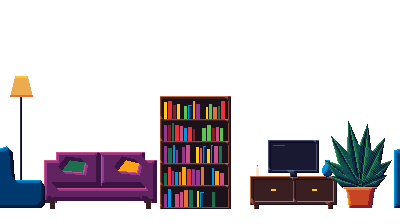
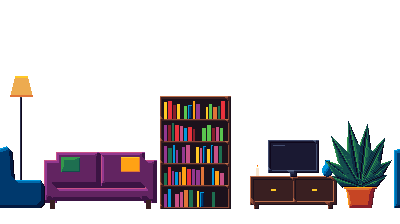
Lake ruins and columns; house furnished from the new furniture set
Claude-Session: https://claude.ai/code/session_0114fZk9r84XsbnoNJLbsP6i

Changed region(s): [[0.27, 0.6875, 0.36, 0.7812], [0.15, 0.6875, 0.24, 0.7812]]

diff --git a/index.html b/index.html
@@ -1183,18 +1183,29 @@ kbd { font-family: var(--body); background: var(--panel); padding: 1px 6px; bord
   const mixOf = (n, m, salt) => { if (!SEED) return n % m; let x = (SEED + Math.imul(n, 0x9E3779B9) + salt) | 0; x ^= x >>> 16; x = Math.imul(x, 0x7feb352d); x ^= x >>> 15; x = Math.imul(x, 0x846ca68b); x ^= x >>> 16; return (x >>> 0) % m; }; // like modOf, but well mixed: modOf's picks repeat in runs
   const modOf = (r, n, m) => SEED ? Math.floor(r() * m) : n % m; // which layout a generated screen uses
   const pk = (r, a, b, st) => a + Math.floor(r() * (Math.floor((b - a) / st) + 1)) * st;
+  // House (Claude places these from the art thread's furniture set, by the room's name). Three spots per room; each takes one
+  // furniture group. Anything taller than one jump (wardrobe, grandfather clock) gets a crate in front as a step.
+  const HOUSE_SETS = { 'DINING ROOM': ['dine', 'stove', 'plant', 'gclock'], PANTRY: ['fridge', 'crates', 'stove', 'table'], STUDY: ['read', 'desk', 'gclock', 'shelf'], 'GUEST ROOM': ['bed', 'wardrobe', 'plant', 'read'],
+    PLAYROOM: ['tv', 'sofa', 'crates', 'plant'], LAUNDRY: ['crates', 'wardrobe', 'table', 'plant'], WORKSHOP: ['desk', 'crates', 'shelf', 'fridge'], STOREROOM: ['crates', 'wardrobe', 'fridge', 'shelf'] };
   function genHouse(name, n) {
     const r = rngOf(101 + n * 17), sty = [['plank', ['#733e39', '#b86f50', '#3e2731']], [0, ['#265c42', '#3e8948', '#193c3e']], [0, ['#e4a672', '#ead4aa', '#b86f50']], [0, ['#5a6988', '#8b9bb4', '#3a4466']], ['block', ['#5a6988', '#8b9bb4', '#3a4466']]][n % 5];
-    const decor = [], props = [], kinds = ['pic', 'lamp', 'win', 'clock', 'lamp', 'books', 'pic'];
+    const decor = [], props = [], deco = [], kinds = ['pic', 'lamp', 'win', 'clock', 'lamp', 'books', 'pic'], P = (k, x, w, h, o) => props.push({ k, x, w, h, ...(o || {}) });
     [220, 480, 740, 1010, 1290].forEach((x, k) => { if (r() < 0.8) decor.push([kinds[(k + n) % kinds.length], x]); });
-    if (r() < 0.5) decor.push(['rug', pk(r, 400, 900, 100)]);
-    const low = [['table', 150, 64], ['side', 90, 92], ['crate', 90, 90], ['desk', 150, 64], ['box', 110, 96], ['counter', 240, 80]], tall = [['tv', 170, 196, 2, 1], ['fridge', 130, 205, 2, 1], ['wardrobe', 150, 215, 3, 0]];
-    [430, 810, 1190].forEach(x => {
-      const t = r(); x += pk(r, -40, 40, 20);
-      if (t < 0.45) { const [k, w, h] = low[Math.floor(r() * low.length)]; props.push({ k, x, w, h }); }
-      else if (t < 0.85) { const [k, w, h, hp, el] = tall[Math.floor(r() * 3)]; props.push({ k: 'side', x: x - 80, w: 90, h: 92 }, { k, x: x + 50, w, h, hp, ...(el ? { elec: 1 } : {}) }); }
-    });
-    return { name, style: sty[0] || undefined, wall: sty[1], floor: sty[0] === 'block' ? ['#8b9bb4', '#5a6988'] : ['#b86f50', '#733e39'], decor, props };
+    if (r() < 0.5) { const rx = pk(r, 400, 900, 100); decor.push(['rug', rx]); deco.push(['rug', rx, 0]); }
+    const G = {
+      dine: x => { P('chair', x - 100, 48, 80); P('table', x, 128, 64); P('chair', x + 100, 48, 80); deco.push(['vase', x, 64]); },
+      table: x => { P('table', x, 128, 64); deco.push(['candle_table', x - 20, 64]); },
+      desk: x => { P('desk', x, 128, 64); P('chair', x + 96, 48, 80); deco.push(['candle_table', x - 30, 64]); },
+      read: x => { deco.push(['lamp', x - 70, 0]); P('armchair', x, 96, 96); },
+      sofa: x => P('counter', x, 192, 96), bed: x => P('bed', x, 192, 56), crates: x => { P('crate', x - 32, 64, 64); P('crate', x + 32, 64, 64); if (r() < 0.5) P('box', x + 96, 64, 64); },
+      plant: x => P('plant', x, 96, 128, { hp: 1 }), stove: x => P('stove', x, 80, 112), fridge: x => P('fridge', x, 64, 128, { hp: 2, elec: 1 }), tv: x => P('tv', x, 160, 128, { hp: 2, elec: 1 }),
+      shelf: x => { P('shelf', x, 128, 128); deco.push(['vase', x + 24, 128]); },
+      wardrobe: x => { P('crate', x - 80, 64, 64); P('wardrobe', x, 96, 160, { hp: 3 }); P('crate', x + 80, 64, 64); },
+      gclock: x => { P('crate', x - 60, 64, 64); P('gclock', x, 56, 160); }
+    };
+    const set = (HOUSE_SETS[name] || HOUSE_SETS.STOREROOM).slice(); let skip = mixOf(n, 4, 101);
+    [430, 810, 1190].forEach((x, q) => { const k = set[(q + skip) % set.length]; G[k](x + pk(r, -40, 40, 20)); });
+    return { name, style: sty[0] || undefined, wall: sty[1], floor: sty[0] === 'block' ? ['#8b9bb4', '#5a6988'] : ['#b86f50', '#733e39'], decor, props, deco };
   }
   function genDojo(n) {
     const r = rngOf(211 + n * 13), props = [], t = mixOf(n, 4, 211);
@@ -1245,9 +1256,15 @@ kbd { font-family: var(--body); background: var(--panel); padding: 1px 6px; bord
     return { name: 'ROOFTOP RUN ' + n, sec: 'rooftop-jumps', scene: 'roofs', void: 1, fast: 1.2, props };
   }
   function genLake(n) {
-    const r = rngOf(401 + n * 7), props = [];
+    const r = rngOf(401 + n * 7), props = [], deco = [], m = mixOf(n, 3, 401), blk = (x0, w, h) => props.push({ k: 'rock', x: x0 + w / 2, w, h });
+    if (m === 1) { /* a sunken ruin (Daniel's underwater references): a broken wall with a stepped top to swim over, then an arch that is cover */
+      let x = pk(r, 380, 460, 40); for (const h of r() < 0.5 ? [160, 288, 224] : [224, 288, 160]) { blk(x, 128, h); x += 128; }
+      const ax = pk(r, 1000, 1120, 40); blk(ax - 150, 64, 256); blk(ax + 86, 64, 256); props.push({ k: 'turtle', plat: 1, x: ax, w: 200, h: 300 }); deco.push(['statue', ax, 0]);
+    } else if (m === 2) { /* a row of columns of different heights with turtles drifting between them */
+      for (let x = pk(r, 400, 460, 30), q = 0; x < 1400; x += pk(r, 300, 360, 30), q++) { blk(x, 64, pk(r, 200, 340, 70)); if (q % 2 === 0) props.push({ k: 'turtle', plat: 1, x: x + 180, w: 200, h: pk(r, 260, 320, 30), drift: [pk(r, 40, 70, 30), +(0.6 + r() * 0.4).toFixed(2), +(r() * 6).toFixed(1)] }); }
+    } else
     for (let x = pk(r, 380, 460, 40); x < 1400; x += pk(r, 380, 520, 70)) { props.push({ k: 'rock', x, w: pk(r, 150, 190, 20), h: pk(r, 150, 300, 50) }); if (r() < 0.7) props.push({ k: 'turtle', plat: 1, x: x + 220, w: 200, h: pk(r, 230, 320, 30), drift: [pk(r, 60, 120, 30), +(0.6 + r() * 0.4).toFixed(2), +(r() * 6).toFixed(1)] }); }
-    return { name: 'LAKE ' + n, sec: 'lake', scene: 'lake', enterY: 330, water: { x0: -1, top: 470 }, props };
+    return { name: 'LAKE ' + n, sec: 'lake', scene: 'lake', enterY: 330, water: { x0: -1, top: 470 }, props, deco };
   }
   function genVolcano(n) {
     const r = rngOf(503 + n * 19), props = [], lava = [];
@@ -1374,7 +1391,7 @@ kbd { font-family: var(--body); background: var(--panel); padding: 1px 6px; bord
     for (let i = 0; i < gl.length;) {
       let j = i; while (j < gl.length && sk(gl[j]) === sk(gl[i])) j++;
       const sec = secOfSk[sk(gl[i])], all = sec && CHUNKS[sec] || [], pool = all.filter(c => !c.sp), fin = sec === 'Space' ? all.filter(c => c.sp && c.beats.includes('Finale')) : [];
-      if (!pool.length || sk(gl[i]) === 'bamboo' || sk(gl[i]) === 'dojo') { for (let k = i; k < j; k++) out.push(gl[k]); i = j; continue; } // bamboo, dojo: Claude's own layouts, not LDtk blocks
+      if (!pool.length || sk(gl[i]) === 'bamboo' || sk(gl[i]) === 'dojo' || sk(gl[i]) === 'lake' || sk(gl[i]) === 'house') { for (let k = i; k < j; k++) out.push(gl[k]); i = j; continue; } // house, bamboo, dojo, lake: Claude's own layouts, not LDtk blocks
       const r = rngOf(9001 + i * 37), label = sec.toUpperCase(); let last = null;
       for (let k = i; k < j; k++) {
         const n = k - i, f = fin[fin.length - (j - k)];
@@ -1391,7 +1408,7 @@ kbd { font-family: var(--body); background: var(--panel); padding: 1px 6px; bord
   }
   const SEC_ART = { house: 'house', dojo: 'dojo', bamboo: 'bamboo', 'rooftop-jumps': 'rooftop', 'lake-dive': 'lake', lake: 'lake', volcano: 'volcano', snow: 'snow', space: 'space' };
   const FIT = { // props take the size of their drawn sprite (world px), so what you see is what blocks you
-    house: { table: [128, 64, 'table'], desk: [128, 64, 'table'], side: [64, 64, 'crate'], box: [64, 64, 'crate'], crate: [64, 64, 'crate'], tv: [128, 128, 'shelf'], wardrobe: [128, 128, 'shelf'], fridge: [64, 128, 'fridge'], bed: [192, 56, 'bed'], counter: [192, 96, 'sofa'] },
+    house: { table: [128, 64, 'table'], desk: [128, 64, 'table'], side: [64, 64, 'crate'], box: [64, 64, 'crate'], crate: [64, 64, 'crate'], tv: [160, 128, 'tv'], wardrobe: [96, 160, 'wardrobe'], shelf: [128, 128, 'shelf'], armchair: [96, 96, 'armchair'], chair: [48, 80, 'chair'], stove: [80, 112, 'stove'], gclock: [56, 160, 'clock'], plant: [96, 128, 'plant'], fridge: [64, 128, 'fridge'], bed: [192, 56, 'bed'], counter: [192, 96, 'sofa'] },
     dojo: { box: [64, 64, 'crate'], dummy: [56, 136, 'dummy'] }, bamboo: { shroom: [64, 48, 'shroom'], hedge: [160, 72, 'hedge'], pot: [64, 56, 'pot'] }, volcano: { rock: [96, 64, 'rock'], slab: [96, 0, 'slab'] }, space: { pod: [80, 112, 'pod'] }
   };
   function fitProps(list) { for (const rm of list) { if (rm.scene === 'dive') { rm.hill = [[0, 560], [330, 560], [334, 0], [1600, 0]]; rm.water = { x0: 334, top: 200 }; for (const p of rm.props || []) if (!p.plat && p.h > 88) p.h = 88; } /* the pond lies at ground level, below a tall last roof (Daniel) */ const F = !rm.climb && rm.scene !== 'lift' && FIT[rm.outdoor ? 'bamboo' : SEC_ART[rm.sec || 'house']]; if (F) for (const p of rm.props || []) { const f = F[p.k]; if (f && !p.hh) { p.w = f[0]; if (f[1]) p.h = f[1]; } } } }
@@ -2250,7 +2267,7 @@ kbd { font-family: var(--body); background: var(--panel); padding: 1px 6px; bord
     volcano: { L: OUT_L, S: ['slab', 'slab_cracked', 'rock'] },
     snow: { L: OUT_L, S: ['pine', 'rock'] },
     dojo: { L: [['bg_sky', 0], ['bg_far', 0.8], ['bg_mid', 1], ['bg_near', 1]], S: ['dummy', 'crate'], V: ['bg_mid'] },
-    house: { L: [['bg_sky', 0], ['bg_far', 1]], S: ['sofa', 'table', 'shelf', 'fridge', 'bed', 'crate'], V: ['bg_far'] },
+    house: { L: [['bg_sky', 0], ['bg_far', 1]], S: ['sofa', 'table', 'shelf', 'fridge', 'bed', 'crate', 'armchair', 'lamp', 'plant', 'tv', 'wardrobe', 'clock', 'stove', 'chair', 'candle_table', 'vase', 'rug'], V: ['bg_far'] },
     elevator: { L: [['bg_sky', 0], ['bg_far', 1], ['bg_mid', 1], ['bg_near', 1]], S: [] },
     space: { L: [['bg_sky', 0], ['bg_far', 0.03], ['bg_mid', 0.1], ['bg_near', 1]], S: ['pod', 'aster_s', 'aster_m', 'aster_l', 'ufo', 'laser'] },
     climb: { L: [], S: ['wall_bay', 'wall_bay_b', 'wall_bay_c', 'wall_opening', 'pillar', 'ladder', 'floor_slab', 'stair_step'] }

diff --git a/CLAUDE.md b/CLAUDE.md
@@ -233,6 +233,13 @@ A pixel-art party game in a single file, `index.html`, hosted on GitHub Pages
   Dojo: `genDojo` has a fourth screen, STAGE (a raised wooden stage 96 high as a wide `crate` block, two beams over it, a dummy
   after it); `chunkList` skips dojo too. `mixOf(n, m, salt)` picks the screen kind for dojo and bamboo, because `modOf` picks
   repeat in runs (neighbouring `rngOf` seeds give alike first draws); other sections still use `modOf`.
+  Lake: `genLake` rotates rock pillars with turtles, a sunken ruin (a stepped broken wall, then an arch of two columns under a
+  turtle) and a row of columns; the dive and lake screens skip the chunks too.
+  House (Daniel asked the art thread for more household objects): `genHouse` fills three spots per room from `HOUSE_SETS[name]`
+  with furniture groups (`G`: dining set, desk, reading corner, sofa, bed, crates, plant, stove, fridge, tv, shelf, wardrobe,
+  grandfather clock `gclock`). Wardrobe and clock are 160 high and get a crate as a step. Solid kinds are sized by `FIT.house`;
+  `lamp`, `vase`, `candle_table` and `rug` are `deco` (the lamp only behind an armchair, vases and candles on furniture), because
+  anything that stands free on the floor has to be solid. The house skips the chunks, so rooms keep their names.
 - No wall holes (Daniel, 2026-11-15): the holes a landed fist used to leave on the back wall (`addHole`, `FX.holes`, `wallHole`)
   looked out of place on the new art; `addHole` now does nothing. It was only a visual.
 - Art in the prototype: Endesga 64 and the Hoodie Guy sprite (PR #22's commit is cherry-picked onto this branch). The other
